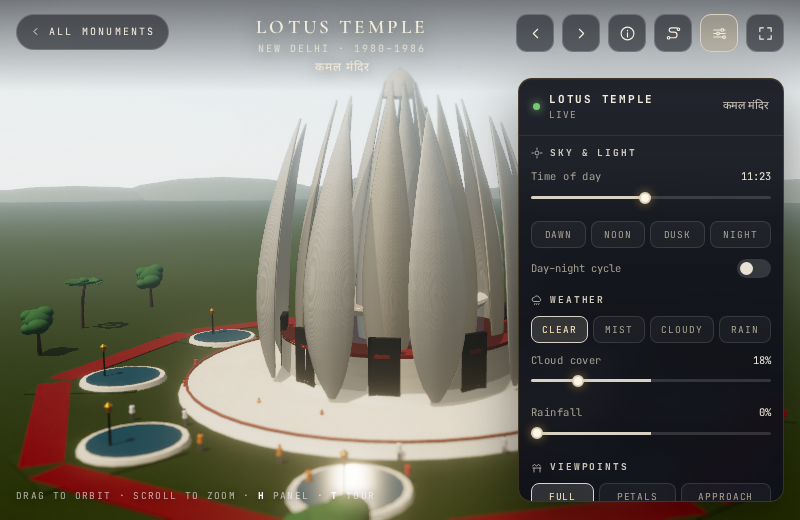
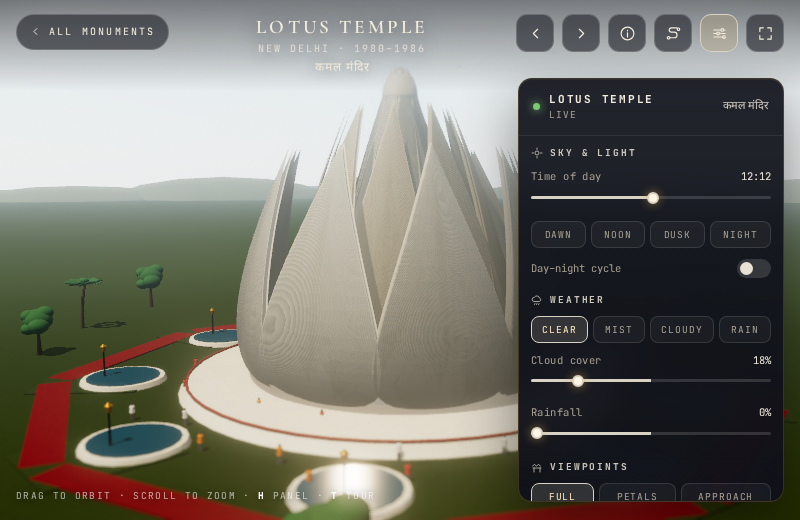
Lotus Temple: the petals are traced, not tapered
Five attempts failed because I was varying scalars on a surface that tapers
from a point. The petal is now traced the way the building's own elevation
shows it: a quadratic Bezier spine in the radius-height plane that springs
from the base ring, bulges outward past its mid-radius and turns back in to a
rounded tip; a width that swells from nothing and dies away along the same
parameter; and a shallow arc across the section so the sheet is folded rather
than conical.

The petals now read as broad curved leaves that overlap and close into a bud,
which is what the building is. 43.4k triangles.

Changed region(s): [[0.2812, 0.1846, 0.6562, 0.8], [0.7812, 0.3692, 0.8438, 0.4], [0.125, 0.6154, 0.1562, 0.6462]]

diff --git a/assets/js/monuments/lotus-temple.js b/assets/js/monuments/lotus-temple.js
@@ -65,6 +65,8 @@ export default {
     MARBLE2.side = T3.DoubleSide;
     MARBLE2.needsUpdate = true;
 
+    const BASE = 1.15;   // top of the plinth, where the petals spring
+
     /* ---- plinth, pools and paths ---------------------------------------- */
     col(MARBLE, 22.5, 23.5, 1.1, 0, 0, 0, 48);
     add('sandstoneRed', torus(22.7, 0.17, 6, 48), 0, 1.14, 0, { rx: Math.PI / 2 });
@@ -83,82 +85,59 @@ export default {
     }
 
     /* ---- one petal -------------------------------------------------------
-       A shell, not a scaled hemisphere: a spine that springs from the base
-       ring, swells outward and turns in again at the tip; a half-width that
-       starts at nothing, is widest at about 40% of the height and closes to
-       a point; and a section that cups so the edges curl inward. Built as a
-       closed double-skinned surface with a rim. */
-    const WPROF = (u) => Math.pow(Math.sin(Math.PI * Math.pow(u, 0.8)), 0.9);
-
+       The petal is traced as a curve in elevation, not as a taper: it springs
+       from the base ring, bulges outward past its mid-radius, then turns back
+       in and closes to a rounded tip. The width swells and dies away along the
+       same parameter, and the section is a shallow arc, so the petal is a
+       folded sheet rather than a cone. */
     function petalGeometry(o) {
-      const { H, R0, Rmid, Rtip, W, cup, thick, bulgeY = 0.35 } = o;
-      const NU = 15, NV = 10, U0 = 0.02, U1 = 0.988;
-      const pt = (u, v) => {
-        const b0 = (1 - u) * (1 - u), b1 = 2 * u * (1 - u), b2 = u * u;
-        const y = b1 * bulgeY * H + b2 * H;
-        const z = b0 * R0 + b1 * Rmid + b2 * Rtip;
-        const w = W * WPROF(u);
-        const k = cup * w * v * v;
-        return new T3.Vector3(v * w, y + 0.3 * k, z - k);
-      };
-      const verts = [], idx = [];
-      const go = [], gi = [];
-      const du = 0.005, dv = 0.03;
-      for (let i = 0; i <= NU; i++) {
-        const u = U0 + (U1 - U0) * (i / NU);
-        go.push([]); gi.push([]);
-        for (let j = 0; j <= NV; j++) {
-          const v = -1 + 2 * (j / NV);
-          const p = pt(u, v);
-          const pu = pt(Math.min(u + du, 1), v).sub(pt(Math.max(u - du, 0), v));
-          const pv = pt(u, Math.min(v + dv, 1)).sub(pt(u, Math.max(v - dv, -1)));
-          const n = new T3.Vector3().crossVectors(pu, pv).normalize();
-          if (n.z < 0) n.negate();
-          go[i].push(verts.push(p.clone()) - 1);
-          gi[i].push(verts.push(p.clone().addScaledVector(n, -thick)) - 1);
+      const { H, R0, Rc, Rtip, W, cup, thick, yPow = 1.55 } = o;
+      const NU = 22, NV = 9;
+      const pos = [], uv = [], idx = [];
+      // quadratic Bezier in the (radius, height) plane
+      const spineR = (u) => (1 - u) * (1 - u) * R0 + 2 * u * (1 - u) * Rc + u * u * Rtip;
+      const spineY = (u) => H * Math.pow(u, yPow);
+      // width: nothing at the root, widest at about a third, rounding to a point
+      const halfW = (u) => W * Math.sin(Math.PI * Math.pow(u, 0.62));
+      const bow = (u, v) => cup * (1 - v * v) * Math.sin(Math.PI * Math.pow(u, 0.5));
+      for (let side = 0; side < 2; side++) {
+        const off = side ? -thick : 0;
+        const base = pos.length / 3;
+        for (let i = 0; i <= NU; i++) {
+          const u = i / NU;
+          const hw = halfW(u), r = spineR(u), y = spineY(u);
+          for (let j = 0; j <= NV; j++) {
+            const v = (j / NV) * 2 - 1;
+            pos.push(v * hw, y, r + bow(u, v) + off);
+            uv.push((v + 1) / 2, u);
+          }
         }
-      }
-      const quad = (a, b, c, d) => { idx.push(a, b, c, a, c, d); };
-      for (let i = 0; i < NU; i++) {
-        for (let j = 0; j < NV; j++) {
-          quad(go[i][j], go[i + 1][j], go[i + 1][j + 1], go[i][j + 1]);
-          quad(gi[i][j], gi[i][j + 1], gi[i + 1][j + 1], gi[i + 1][j]);
+        for (let i = 0; i < NU; i++) {
+          for (let j = 0; j < NV; j++) {
+            const a = base + i * (NV + 1) + j, b = a + NV + 1;
+            if (side === 0) idx.push(a, b, a + 1, a + 1, b, b + 1);
+            else idx.push(a, a + 1, b, a + 1, b + 1, b);
+          }
         }
-      }
-      // rims: both long edges and both ends, so the shell closes
-      for (let i = 0; i < NU; i++) {
-        quad(go[i][0], gi[i][0], gi[i + 1][0], go[i + 1][0]);
-        quad(go[i][NV], go[i + 1][NV], gi[i + 1][NV], gi[i][NV]);
-      }
-      for (let j = 0; j < NV; j++) {
-        quad(go[0][j], go[0][j + 1], gi[0][j + 1], gi[0][j]);
-        quad(go[NU][j], gi[NU][j], gi[NU][j + 1], go[NU][j + 1]);
       }
       const g = new T3.BufferGeometry();
-      const arr = new Float32Array(verts.length * 3);
-      verts.forEach((p, k) => { arr[k * 3] = p.x; arr[k * 3 + 1] = p.y; arr[k * 3 + 2] = p.z; });
-      g.setAttribute('position', new T3.BufferAttribute(arr, 3));
+      g.setAttribute('position', new T3.Float32BufferAttribute(pos, 3));
+      g.setAttribute('uv', new T3.Float32BufferAttribute(uv, 2));
       g.setIndex(idx);
       g.computeVertexNormals();
       return g;
     }
 
-    /* ---- the three rings of nine -----------------------------------------
-       Outer ring leans out and stands almost upright at the tip; the middle
-       ring draws in; the inner ring closes over the top. Read from the side
-       the three together make a bud — widest a third of the way up, closing
-       to a single point. */
-    const BASE = 1.1;
+    /* ---- three rings of nine --------------------------------------------- */
     const RINGS = [
-      { R0: 15.4, Rmid: 19.2, Rtip: 11.4, H: 29.0, W: 2.75, cup: 0.40, thick: 0.30, rot: 0, mat: MARBLE },
-      { R0: 10.8, Rmid: 14.0, Rtip: 6.4, H: 31.5, W: 2.45, cup: 0.44, thick: 0.28, rot: Math.PI / 9, mat: MARBLE2 },
-      { R0: 6.0, Rmid: 8.2, Rtip: 1.2, H: 34.0, W: 2.10, cup: 0.48, thick: 0.26, rot: 0, mat: MARBLE }
+      { H: 24.0, R0: 14.6, Rc: 19.6, Rtip: 12.0, W: 6.4, cup: 0.9, thick: 0.5, rot: 0, mat: MARBLE },
+      { H: 28.4, R0: 10.4, Rc: 14.2, Rtip: 5.4, W: 5.4, cup: 0.8, thick: 0.45, rot: Math.PI / 9, mat: MARBLE2 },
+      { H: 32.4, R0: 6.2, Rc: 8.4, Rtip: 0.9, W: 4.4, cup: 0.7, thick: 0.4, rot: 0, mat: MARBLE }
     ];
     RINGS.forEach((r) => {
       for (let i = 0; i < 9; i++) {
         const a = (i / 9) * Math.PI * 2 + r.rot;
-        const g = petalGeometry(r);
-        add(r.mat, g, 0, BASE, 0, { ry: Math.PI / 2 - a });
+        add(r.mat, petalGeometry(r), 0, BASE, 0, { ry: Math.PI / 2 - a });
       }
     });
 
